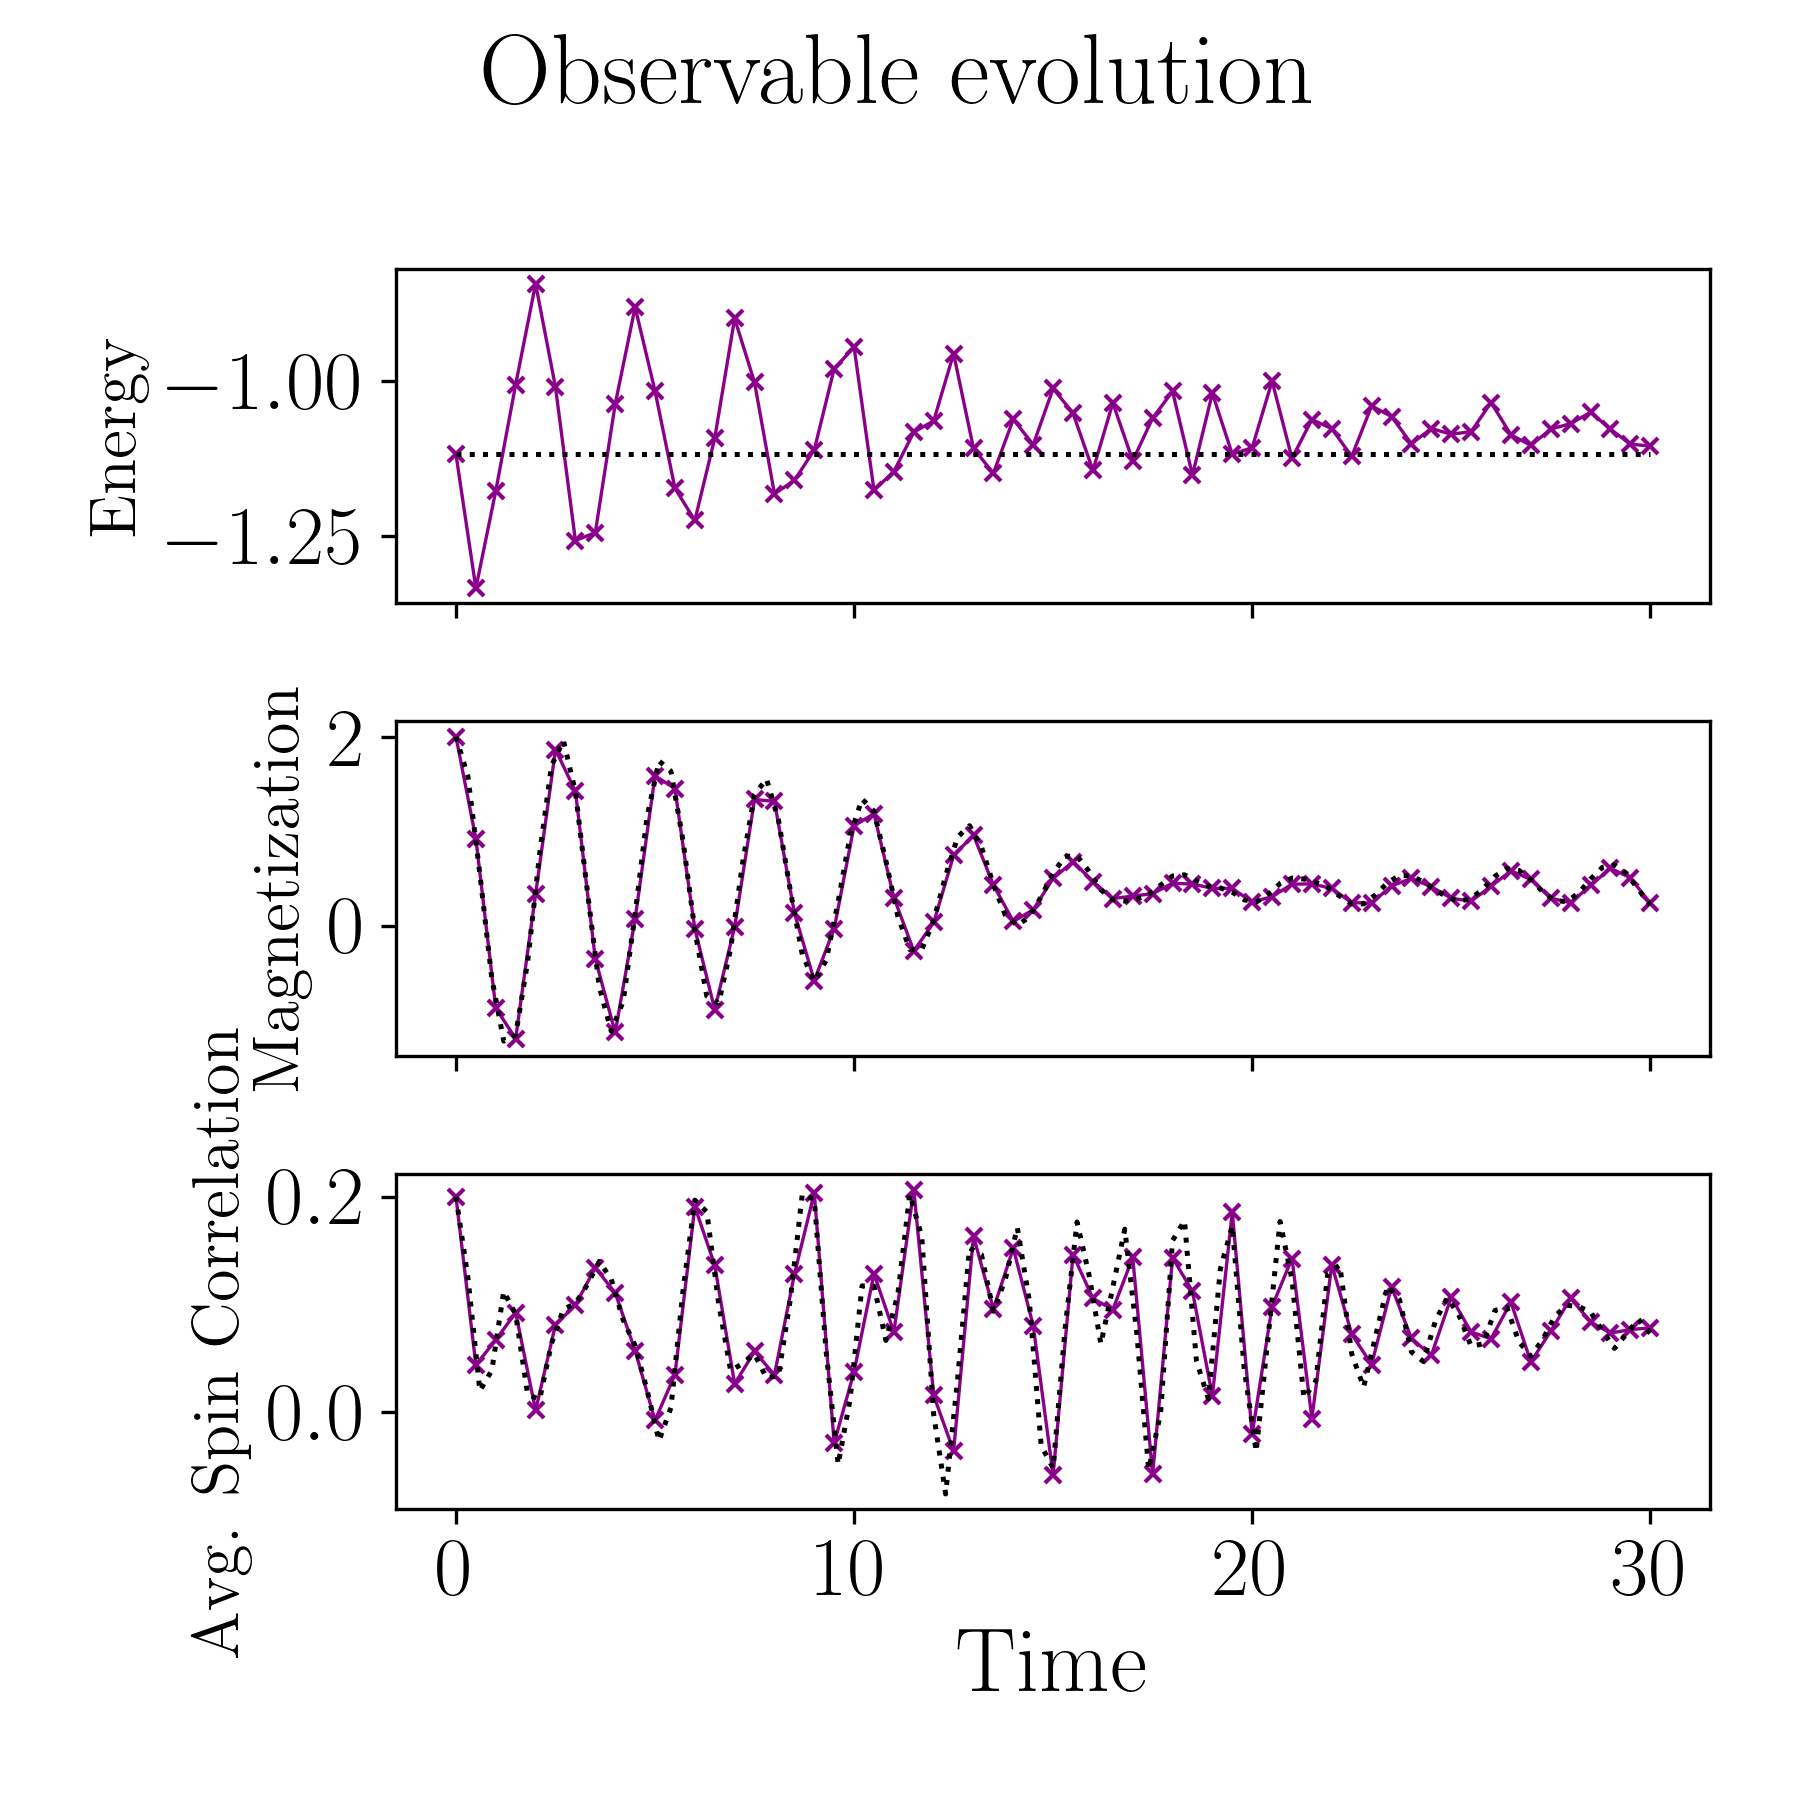
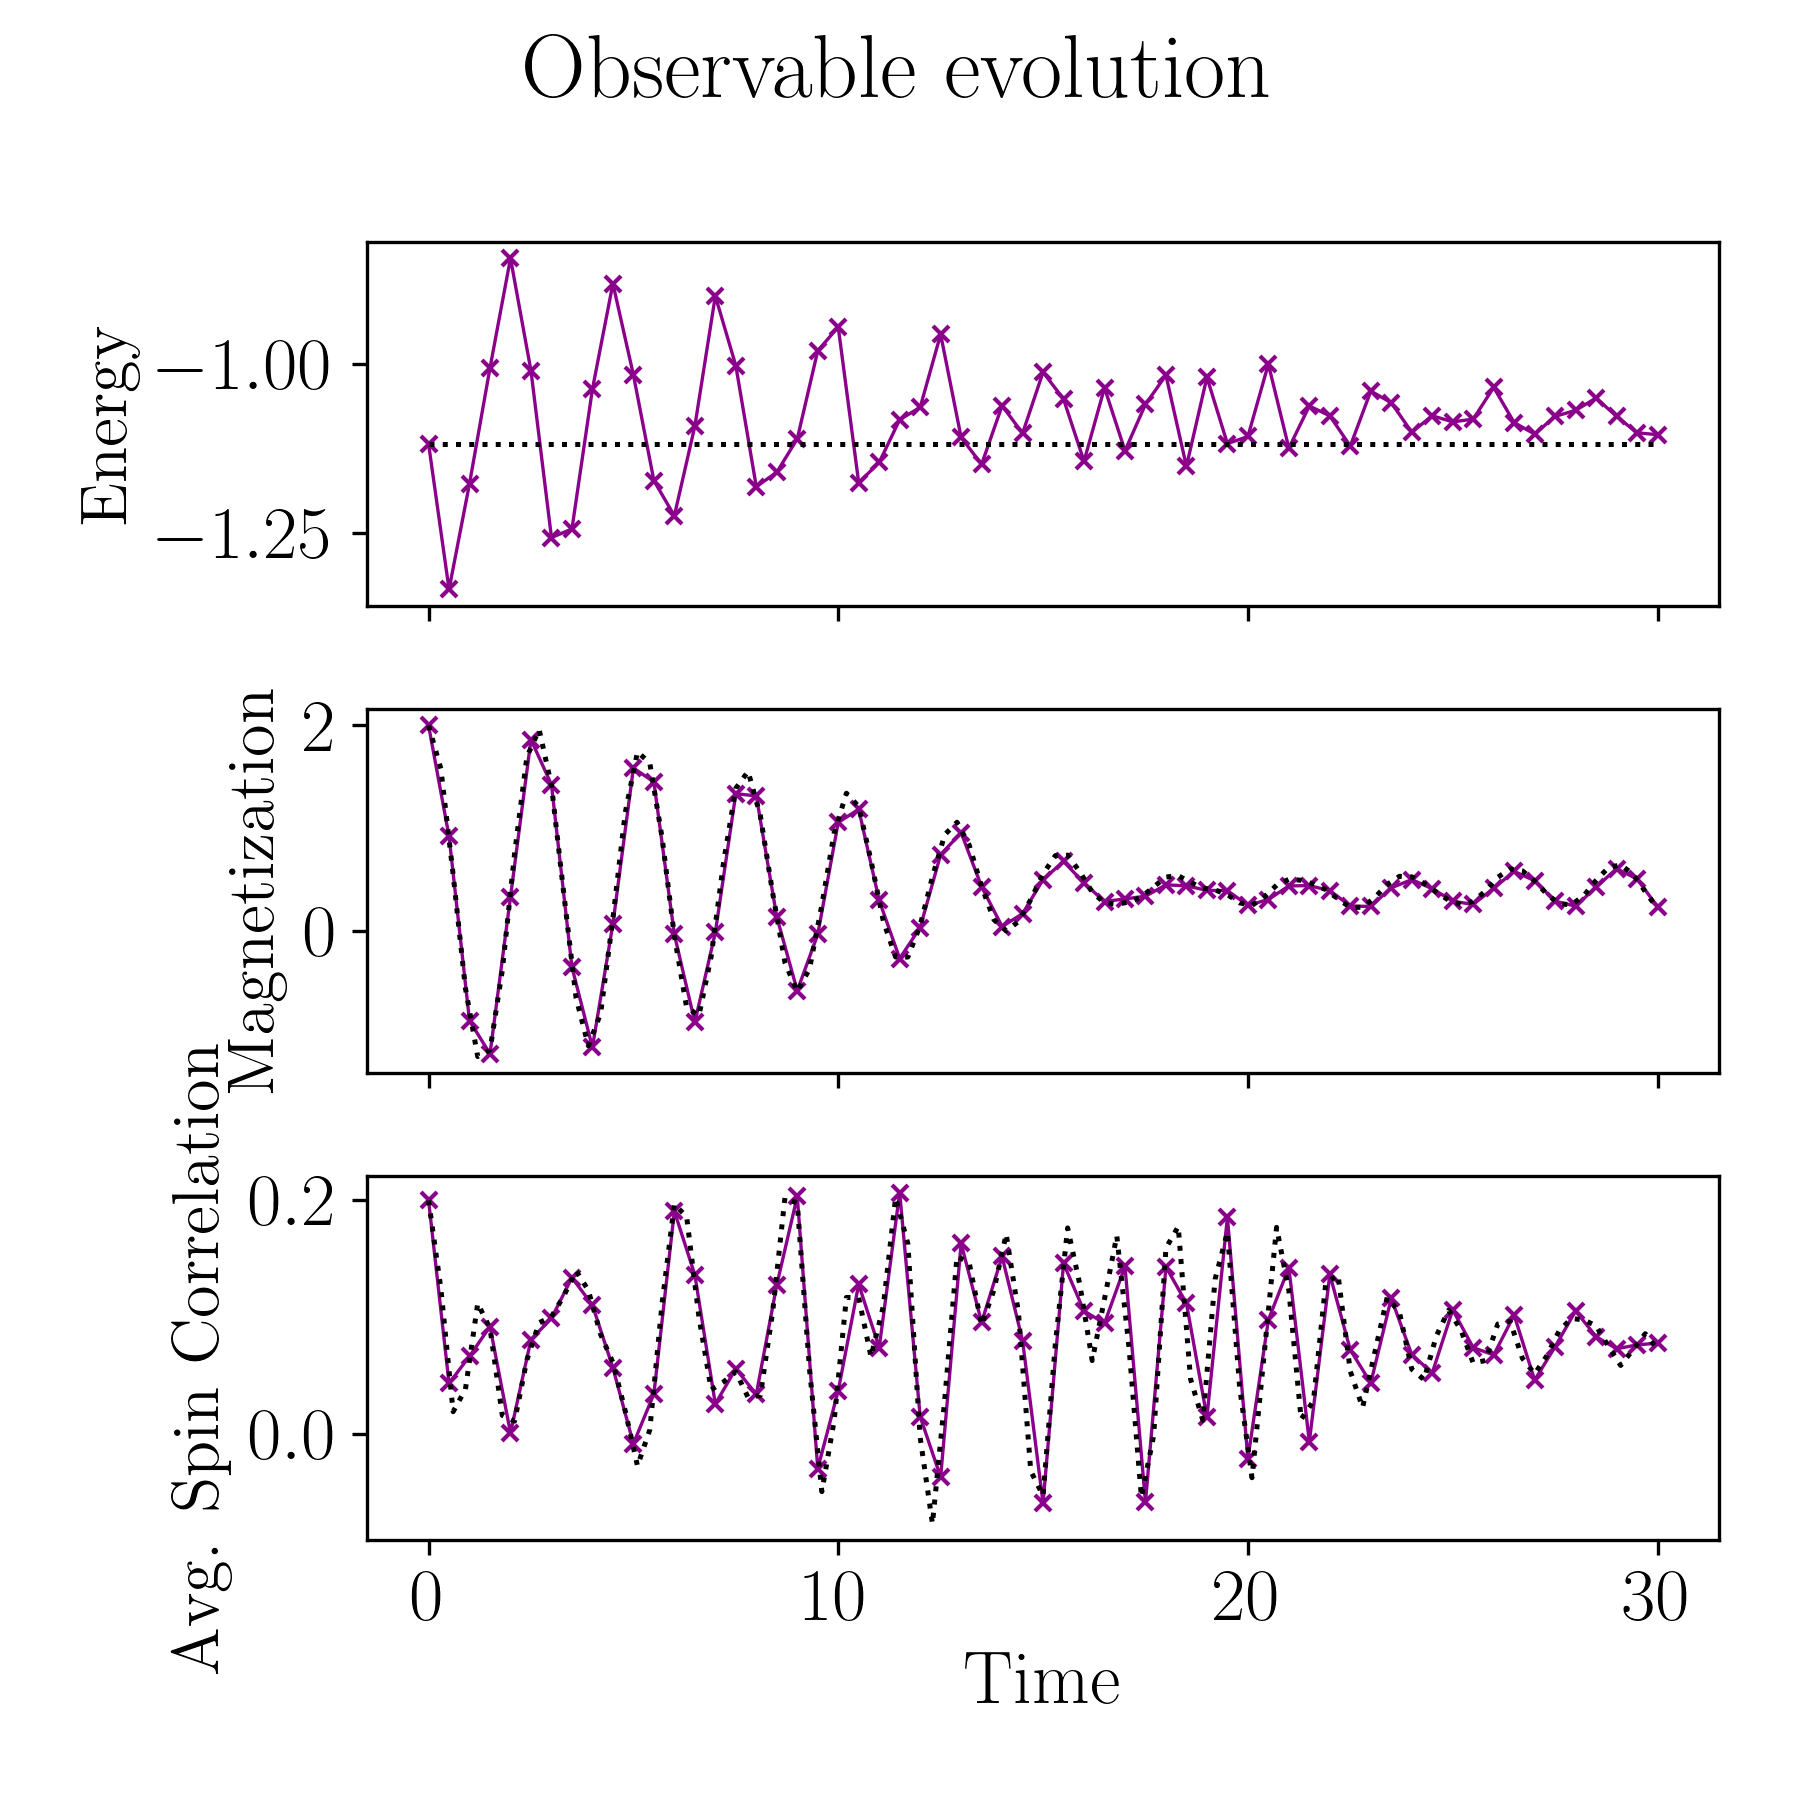
Added docs page for arbitrary hamiltonian evolution

diff --git a/src/qflux/closed_systems/qubit_methods.py b/src/qflux/closed_systems/qubit_methods.py
@@ -220,7 +220,7 @@ class QubitDynamicsCS(DynamicsCS):
 
 
     def propagate_qmatvec(self, backend=None, n_shots: int = 1024, hamiltonian_matrix=None, initial_state=None):
-        """
+        r"""
             Function to propagate dynamics object with the qubit matvec method.
 
             Args:

diff --git a/docs/qflux/Closed_Systems/arbitrary_evo.md b/docs/qflux/Closed_Systems/arbitrary_evo.md
@@ -1,0 +1,314 @@
+# Evolution for an Arbitrary Hamiltonian
+
+Let us now consider the task of running quantum dynamics for an arbitrary Hamiltonian describing a system of interest, $\hat{H}$. To do this on a quantum device, we must first express the Hamiltonian in a way that can be easily understood by the quantum device, that is to say that we must express the Hamiltonian as a series of native quantum gates. We can do this by expressing the Hamiltonian as a weighted combination of Pauli strings: 
+
+$$ \hat{H}_{\text{Pauli}} = \sum_{i} \alpha_{i} P_{i} $$ 
+
+where $P_{i}$ is an $n$-qubit Pauli string corresponding to Pauli gates acting acting on an $n$-qubit quantum register. 
+
+This task can be completed via the `decompose()` utility function in `qflux`. 
+
+Once we've rewritten our Hamiltonian, we can implement real-time dynamics on the quantum device by representing the propagator as a quantum circuit: 
+
+$$ \hat{U} = e^{- \frac{i}{\hbar} \hat{H}_{\text{Pauli}} \tau} $$ 
+
+where $\tau$ is the time-step. By applying the propagator to a quantum register initialized to our initial state for dynamics calculation ($\left| \psi_{0} \right\rangle$), we can obtain the time-evolved state $\left| \psi ( t ) \right\rangle$. 
+
+In the following example, we follow [this example](https://qiskit-community.github.io/qiskit-algorithms/tutorials/13_trotterQRTE.html) and look at the time evolution of an Ising Model on linear lattices of length $L$ consisting of an array of spins $\sigma_{i}^{z}$ with nearest-neighbor interactions. These spins can have two orientations: $\uparrow$ and $\downarrow$, which corresopnd to a magnetization of +1 and -1. 
+
+The Hamiltonian for this sort of system can be written as: 
+
+$$ H = - J \sum_{i=0}^{L-2} \sigma_{i} \sigma_{i+1} - h \sum_{i=0}^{L-1} \sigma_{i} $$ 
+
+where $J$ describes the interaction energy between neighboring spins and $h$ describes the magnitude of an applied field. We can write this in terms of Pauli matrix and take the angle (with respect to the trasnversal direction) of the applied field into account: 
+
+$$ H = - J \sum_{i=0}^{L-2} Z_{i} Z_{i+1} - h \sum_{i=0}^{L-1} \left( \sin(\alpha) Z_{i} + \cos(\alpha) X_{i} \right) $$ 
+
+We can write a Python function to construct this Hamiltonian: 
+
+```python
+from qiskit.quantum_info import SparsePauliOp
+from math import sin, cos, pi
+
+def get_hamiltonian(L: int, J: float, h: float, alpha: float):
+    r'''
+    Function to construct the Ising Model Hamiltonian for a linear chain 
+    of length L with nearest-neighbor interactions, subject to an external
+    field applied at an angle $\alpha$ with respect to the transversal direction.
+    
+    '''
+    # Construct the Hamiltonian by creating 3-tuples with:
+    # (1) the Pauli string
+    # (2) the qubit indices corresponding to the Pauli string
+    # (3) the coefficient
+    pauli_tuples = []
+    for ii in range(L-1):
+        pauli_tuples.append(("ZZ", [ii, ii+1], -J))
+        pauli_tuples.append(("Z", [ii], -h * sin(alpha)))
+        pauli_tuples.append(("X", [ii], -h * cos(alpha)))
+    pauli_tuples.append(("Z", [L-1], -h * sin(alpha)))
+    pauli_tuples.append(("X", [L-1], -h * cos(alpha)))
+    # Construct the Hamiltonian as a SparsePauliOp from our sparse list
+    hamiltonian = SparsePauliOp.from_sparse_list(pauli_tuples, num_qubits=L)
+    return(hamiltonian.simplify())
+
+```
+
+We first look at a spin chain with two spins: 
+
+```python
+spin_H = get_hamiltonian(L=2, J=0.2, h=1.0, alpha=pi/8.)
+```
+
+And we can now construct an initial state: 
+
+```python
+from qiskit.quantum_info import Statevector
+# Create an initial state with the first spin-up and the second spin-down
+intial_state = Statevector.from_label("10")
+```
+
+Now we can create our dynamics object with `qflux` and compute the propagation:
+
+```python
+from qflux.closed_systems import QubitDynamicsCS
+spin_dyn_obj = QubitDynamicsCS(n_basis=4)
+
+# Specify propagation time:
+total_time = 1.6
+N_steps    = 1
+
+spin_dyn_obj.set_propagation_time(total_time, N_steps)
+
+# Set the backend
+from qiskit_aer import Aer
+backend = Aer.get_backend('statevector_simulator')
+spin_dyn_obj.propagate_qmatvec(backend=backend, n_shots=1024, 
+                               hamiltonian_matrix=spin_H.to_matrix(), 
+                               initial_state=initial_state.data)
+```
+
+Now we can use this workflow to look at measurement probabilities at a series of angles for the applied external field: 
+
+```python 
+import numpy as np
+import matplotlib.pyplot as plt
+
+bar_width = 0.1
+# We prepare an initial state ↑↓ (01).
+# Note that Statevector and SparsePauliOp interpret the qubits from right to left
+initial_state = Statevector.from_label("10")
+final_time = 1.6
+eps = 1e-5
+
+# We create the list of angles in radians, with a small epsilon
+# the exactly longitudinal field, which would present no dynamics at all
+alphas = np.linspace(-np.pi / 2 + eps, np.pi / 2 - eps, 5)
+labels = [r'$\left| 00 \right\rangle$', r'$\left| 01 \right\rangle$',
+          r'$\left| 10 \right\rangle$', r'$\left| 11 \right\rangle$']
+
+for i, alpha in enumerate(alphas):
+    H_alpha = get_hamiltonian(L=2, J=0.2, h=1.0, alpha=alpha)
+    spin_dyn_obj.propagate_qmatvec(backend=backend, n_shots=2048,
+                                   hamiltonian_matrix=H_alpha.to_matrix(),
+                                   initial_state=initial_state.data)
+
+    evolved_state = Statevector(spin_dyn_obj.dynamics_results_qubit[-1])
+    # Dictionary of probabilities
+    amplitudes_dict = evolved_state.probabilities_dict()
+
+    values = list(amplitudes_dict.values())
+    # Convert angle to degrees
+    alpha_str = f"$\\alpha={int(np.round(alpha * 180 / pi))}^\\circ$"
+    plt.bar(np.arange(4) + i * bar_width, values, bar_width, label=alpha_str, alpha=0.7)
+
+plt.xticks(np.arange(4) + 2 * bar_width, labels)
+plt.xlabel("Measurement")
+plt.ylabel("Probability")
+plt.suptitle(
+    f"Measurement probabilities at $t={final_time}$, for various field angles $\\alpha$\n"
+    r"Initial state: $\left| 1 0 \right\rangle$, Linear lattice of size $L=2$"
+)
+plt.legend()
+plt.tight_layout()
+```
+
+Which gives us the following plot: 
+
+![linearchain-l2](../images/Part_I/Spin_L2_Probabilities.png)
+
+## Observables
+
+In this example, we will look at computing observables with the output of a dynamics calculation for a longer chain of spins. We begin with the calculation of the Hamiltonian: 
+
+```python
+L = 6
+spin_H = get_hamiltonian(L=L, J=0.2, h=1.2, alpha=pi/8.)
+```
+
+And we proceed just as we did before with the construction of our construction object: 
+
+```python
+# Instantiate our Dynamics Object 
+spin_dyn_obj = QubitDynamicsCS(n_basis=2**L)
+
+# Specify Propagation Time
+total_time    = 30.0
+num_timesteps = 60
+spin_dyn_obj.set_propagation_time(total_time, num_timesteps)
+
+# Set initial State: 
+initial_state = Statevector.from_label("001100")
+
+# Set the backend
+from qiskit_aer import Aer
+backend = Aer.get_backend('statevector_simulator')
+spin_dyn_obj.propagate_qmatvec(backend=backend, n_shots=1024, 
+                               hamiltonian_matrix=spin_H.to_matrix(), 
+                               initial_state=initial_state.data)
+```
+
+For our observables, we can construct a magnetization operator $\sum_{i} Z_{i}$ and a mean spin correlation operator $\sum_{i} Z_{i} Z_{i+1} / (L-1)$: 
+
+```python
+magnetization_op = SparsePauliOp.from_sparse_list(
+    [("Z", [i], 1.0) for i in range(0, L)], num_qubits=L
+)
+correlation_op = SparsePauliOp.from_sparse_list(
+    [("ZZ", [i, i + 1], 1.0) for i in range(0, L - 1)], num_qubits=L
+) / (L - 1)
+```
+
+And we define a function for calculating the expectation values: 
+
+```python
+def calculate_expectation_value(dynamics_results, observable):
+    expect_out = []
+    
+    if type(observable) != np.ndarray:
+        observable = observable.to_matrix()
+        
+    for ii in range(len(dynamics_results)):
+        expect_out.append((dynamics_results[ii].conj().T @ observable).dot(dynamics_results[ii]))
+    return(np.asarray(expect_out))
+```
+
+which we can use to calculate the expectation values: 
+
+```python
+expectation_magnetization = calculate_expectation_value(spin_dyn_obj.dynamics_results_qubit, magnetization_op)
+expectation_spinspin_corr = calculate_expectation_value(spin_dyn_obj.dynamics_results_qubit, correlation_op)
+expectation_energy        = calculate_expectation_value(spin_dyn_obj.dynamics_results_qubit, spin_H)
+```
+
+We can compare this to the exact evolution computed as follows: 
+
+```python
+import scipy
+
+H_array = spin_H.to_matrix()
+
+# We define a slightly denser time mesh
+exact_times = np.linspace(0, total_time, 101)
+
+# We compute the exact evolution using the exp
+exact_evolution = [scipy.linalg.expm(-1j * time * H_array) @ initial_state.data for time in exact_times]
+```
+
+And we compute the expectation values: 
+
+```python
+exact_energy        = calculate_expectation_value(exact_evolution, H_array)
+exact_magnetization = calculate_expectation_value(exact_evolution, magnetization_op)
+exact_correlation   = calculate_expectation_value(exact_evolution, correlation_op)
+```
+
+And plot the results of the dynamics computed with `qflux` and `scipy` for comparison: 
+
+```python 
+fig, axes = plt.subplots(3, sharex=True, figsize=(6, 6))
+times = np.linspace(0, total_time, num_timesteps + 1)  # includes initial state
+axes[0].plot(spin_dyn_obj.tlist, expectation_energy, label='Pauli Trotter',
+             marker="x", c="darkmagenta", ls="-", lw=0.8)
+axes[1].plot(spin_dyn_obj.tlist, expectation_magnetization, label='Pauli Trotter',
+             marker="x", c="darkmagenta", ls="-", lw=0.8)
+axes[2].plot(spin_dyn_obj.tlist, expectation_spinspin_corr, label='Pauli Trotter',
+             marker="x", c="darkmagenta", ls="-", lw=0.8)
+axes[0].set_ylabel("Energy", fontsize=16)
+axes[1].set_ylabel("Magnetization", fontsize=16)
+axes[2].set_ylabel("Avg. Spin Correlation", fontsize=16)
+axes[2].set_xlabel("Time")
+
+
+
+axes[0].plot(exact_times, exact_energy, c="k", ls=":", label="Exact")
+axes[1].plot(exact_times, exact_magnetization, c="k", ls=":", label="Exact")
+axes[2].plot(exact_times, exact_correlation, c="k", ls=":", label="Exact")
+# Select the labels of only the first axis
+legend = fig.legend(
+    *axes[0].get_legend_handles_labels(),
+    bbox_to_anchor=(1.0, 0.5),
+    loc="center left",
+    framealpha=0.5, ncols=2
+)
+fig.suptitle("Observable evolution")
+fig.tight_layout()
+```
+
+which should look like the following: 
+
+![linearchain-observables](../images/Part_I/Spin-Evolution.png)
+
+We can also compute the site-specific magnetization: 
+
+```python
+site_specific_magnetizations = np.real(
+                                    [[Statevector(tmp_state).expectation_value(term) for term in magnetization_op]
+                                     for tmp_state in exact_evolution]
+                                        )
+```
+
+And plot it: 
+
+```python
+from matplotlib import cm
+
+plt.figure(figsize=(14, 2))
+# Create the 2-dim xx and yy arrays tiling the grid with the x and y values
+xx, yy = np.meshgrid(exact_times, np.arange(L))
+plt.pcolor(xx, yy, site_specific_magnetizations.T, vmin=-1, vmax=+1, cmap="RdBu")
+# Force the figure to have all y ticks from 0 to 5
+plt.yticks(np.arange(L))
+plt.ylabel("Site $i$")
+plt.xlabel("Time")
+plt.colorbar(label="$\\langle Z_i \\rangle$", aspect=1.8)
+```
+
+![linear-chain-sitespecific-exact](../images/Part_I/Site-Specific-Magnetization.png)
+
+Similarly, we can compute the site-specific magnetization with our dynamics results: 
+
+```python
+site_specific_magnetizations = np.real(
+                                    [[Statevector(tmp_state).expectation_value(term) for term in magnetization_op] 
+                                     for tmp_state in spin_dyn_obj.dynamics_results_qubit]
+                                        )
+```
+
+And plot it just as we did for the exact dynamics result: 
+
+```python 
+from matplotlib import cm
+
+plt.figure(figsize=(14, 2))
+# Create the 2-dim xx and yy arrays tiling the grid with the x and y values
+xx, yy = np.meshgrid(spin_dyn_obj.tlist, np.arange(L))
+plt.pcolor(xx, yy, site_specific_magnetizations.T, vmin=-1, vmax=+1, cmap="RdBu")
+# Force the figure to have all y ticks from 0 to 5
+plt.yticks(np.arange(L))
+plt.ylabel("Site $i$")
+plt.xlabel("Time")
+plt.colorbar(label="$\\langle Z_i \\rangle$", aspect=1.8)
+```
+
+![linear-chain-sitespecific-qflux](../images/Part_I/Site-Specific-Magnetization-qflux.png)

diff --git a/docs/qflux/Closed_Systems/index.md b/docs/qflux/Closed_Systems/index.md
@@ -18,4 +18,5 @@ Before we look at doing Quantum Dynamics on a quantum computer, we'll start out 
 - [Example: Quantum Harmonic Oscillator](qho_example.md)
 - [Example: Adenine-Thymine Base Pair](AT_basepair.md)
 - [Example: Spin Chain](spinchain.md)
+- [Example: Dynamics for an Arbitrary Hamiltonian](arbitrary_evo.md)
 - [API Documentation](cs_api.md)
